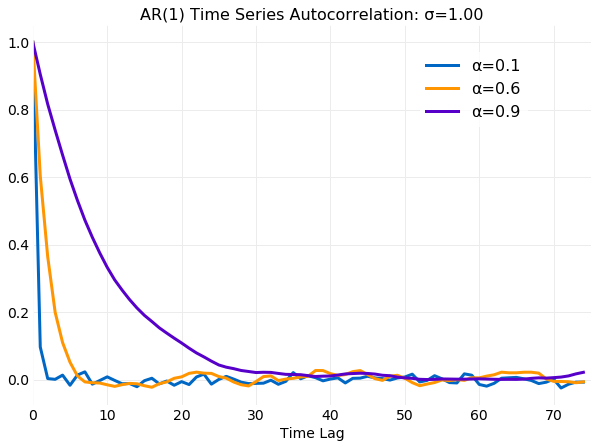
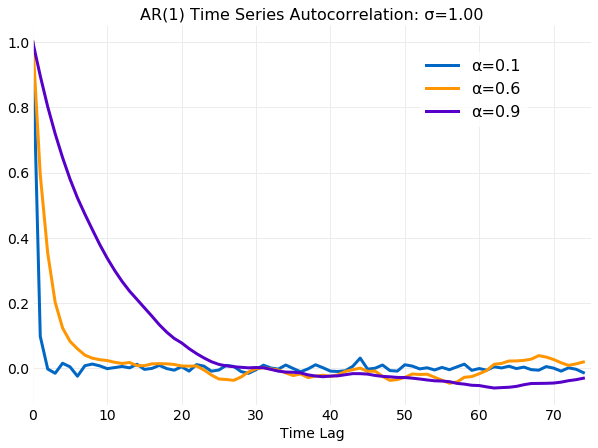
new plots

diff --git a/hydrogen_notebooks/stats/auotocorrelation.py b/hydrogen_notebooks/stats/auotocorrelation.py
@@ -87,19 +87,19 @@ config.save_post_asset(figure, "discrete_cross_correlation_theorem", "ar1_alpha_
 x0 = 1.0
 α = 0.7
 nsamples = 100000
-max_samples = [5000, 10000, 15000, 20000]
-max_lag = 75
+max_samples = [5000, 10000, 15000, 100000]
+max_lag = 40
 
 samples = ar_1_series(α, σ, x0, nsamples)
 
 figure, axis = pyplot.subplots(figsize=(10, 7))
 axis.set_title(f"AR(1) Time Series Autocorrelation Equilibrium Relaxation: σ={format(σ, '2.2f')}")
 axis.set_xlabel("Time Lag")
-axis.set_xlim([0, max_lag])
+axis.set_xlim([-0.5, max_lag])
 
 for i in range(len(max_samples)):
     ac = stats.autocorrelate(samples[1:max_samples[i]])
-    axis.semilogx(range(max_lag), numpy.real(ac[:max_lag]), label=f"t={max_samples[i]}")
+    axis.plot(range(0, max_lag), numpy.real(ac[0:max_lag]), label=f"t={max_samples[i]}")
 
 axis.legend(bbox_to_anchor=(0.9, 0.95), fontsize=16)
 
